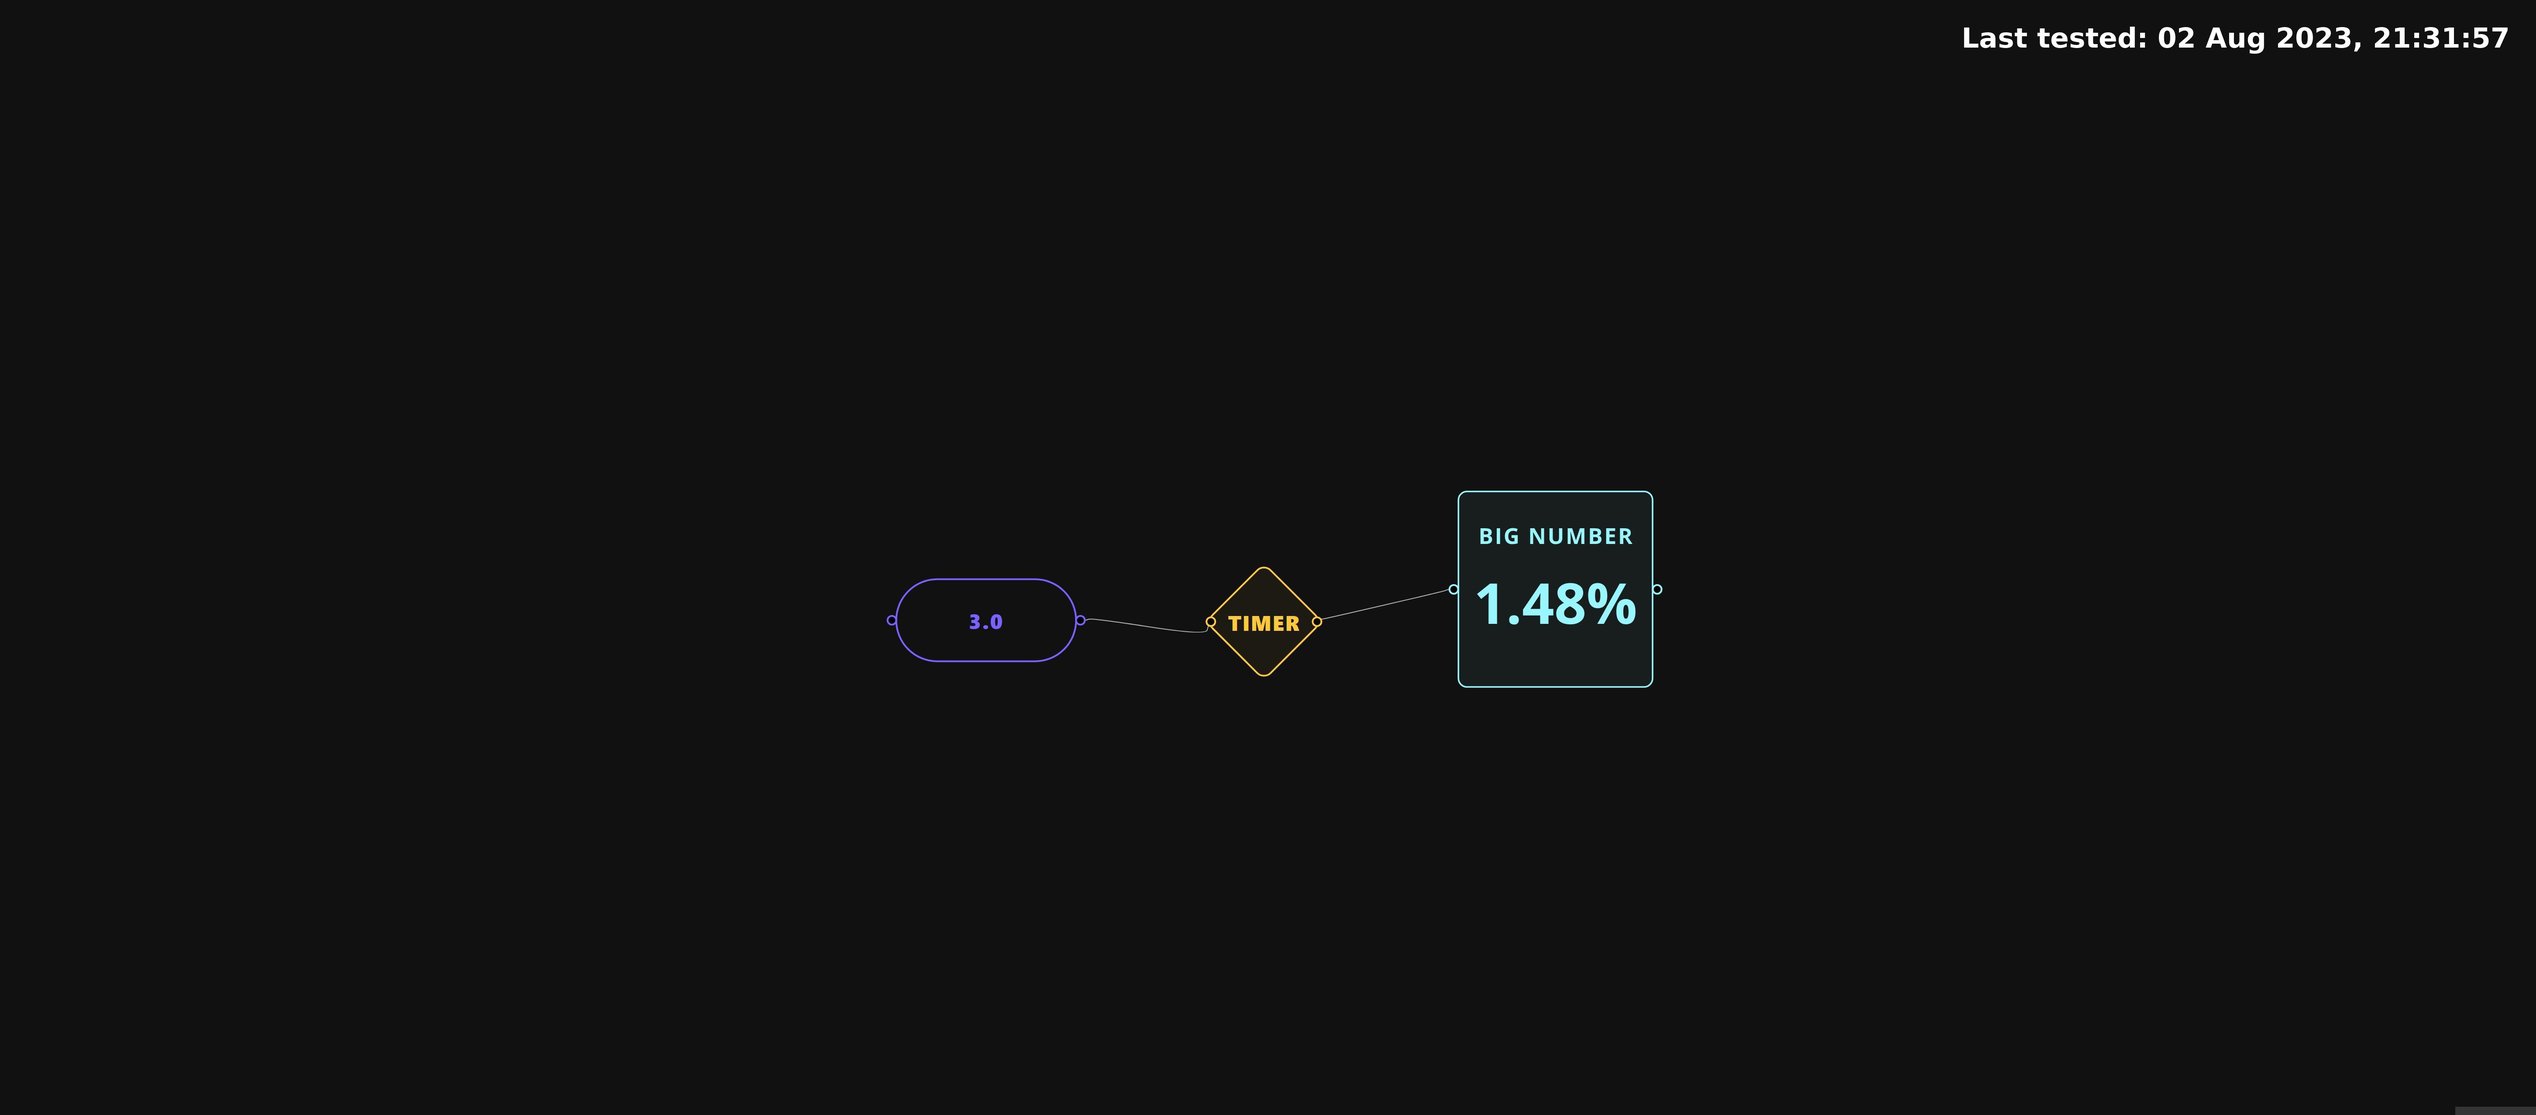
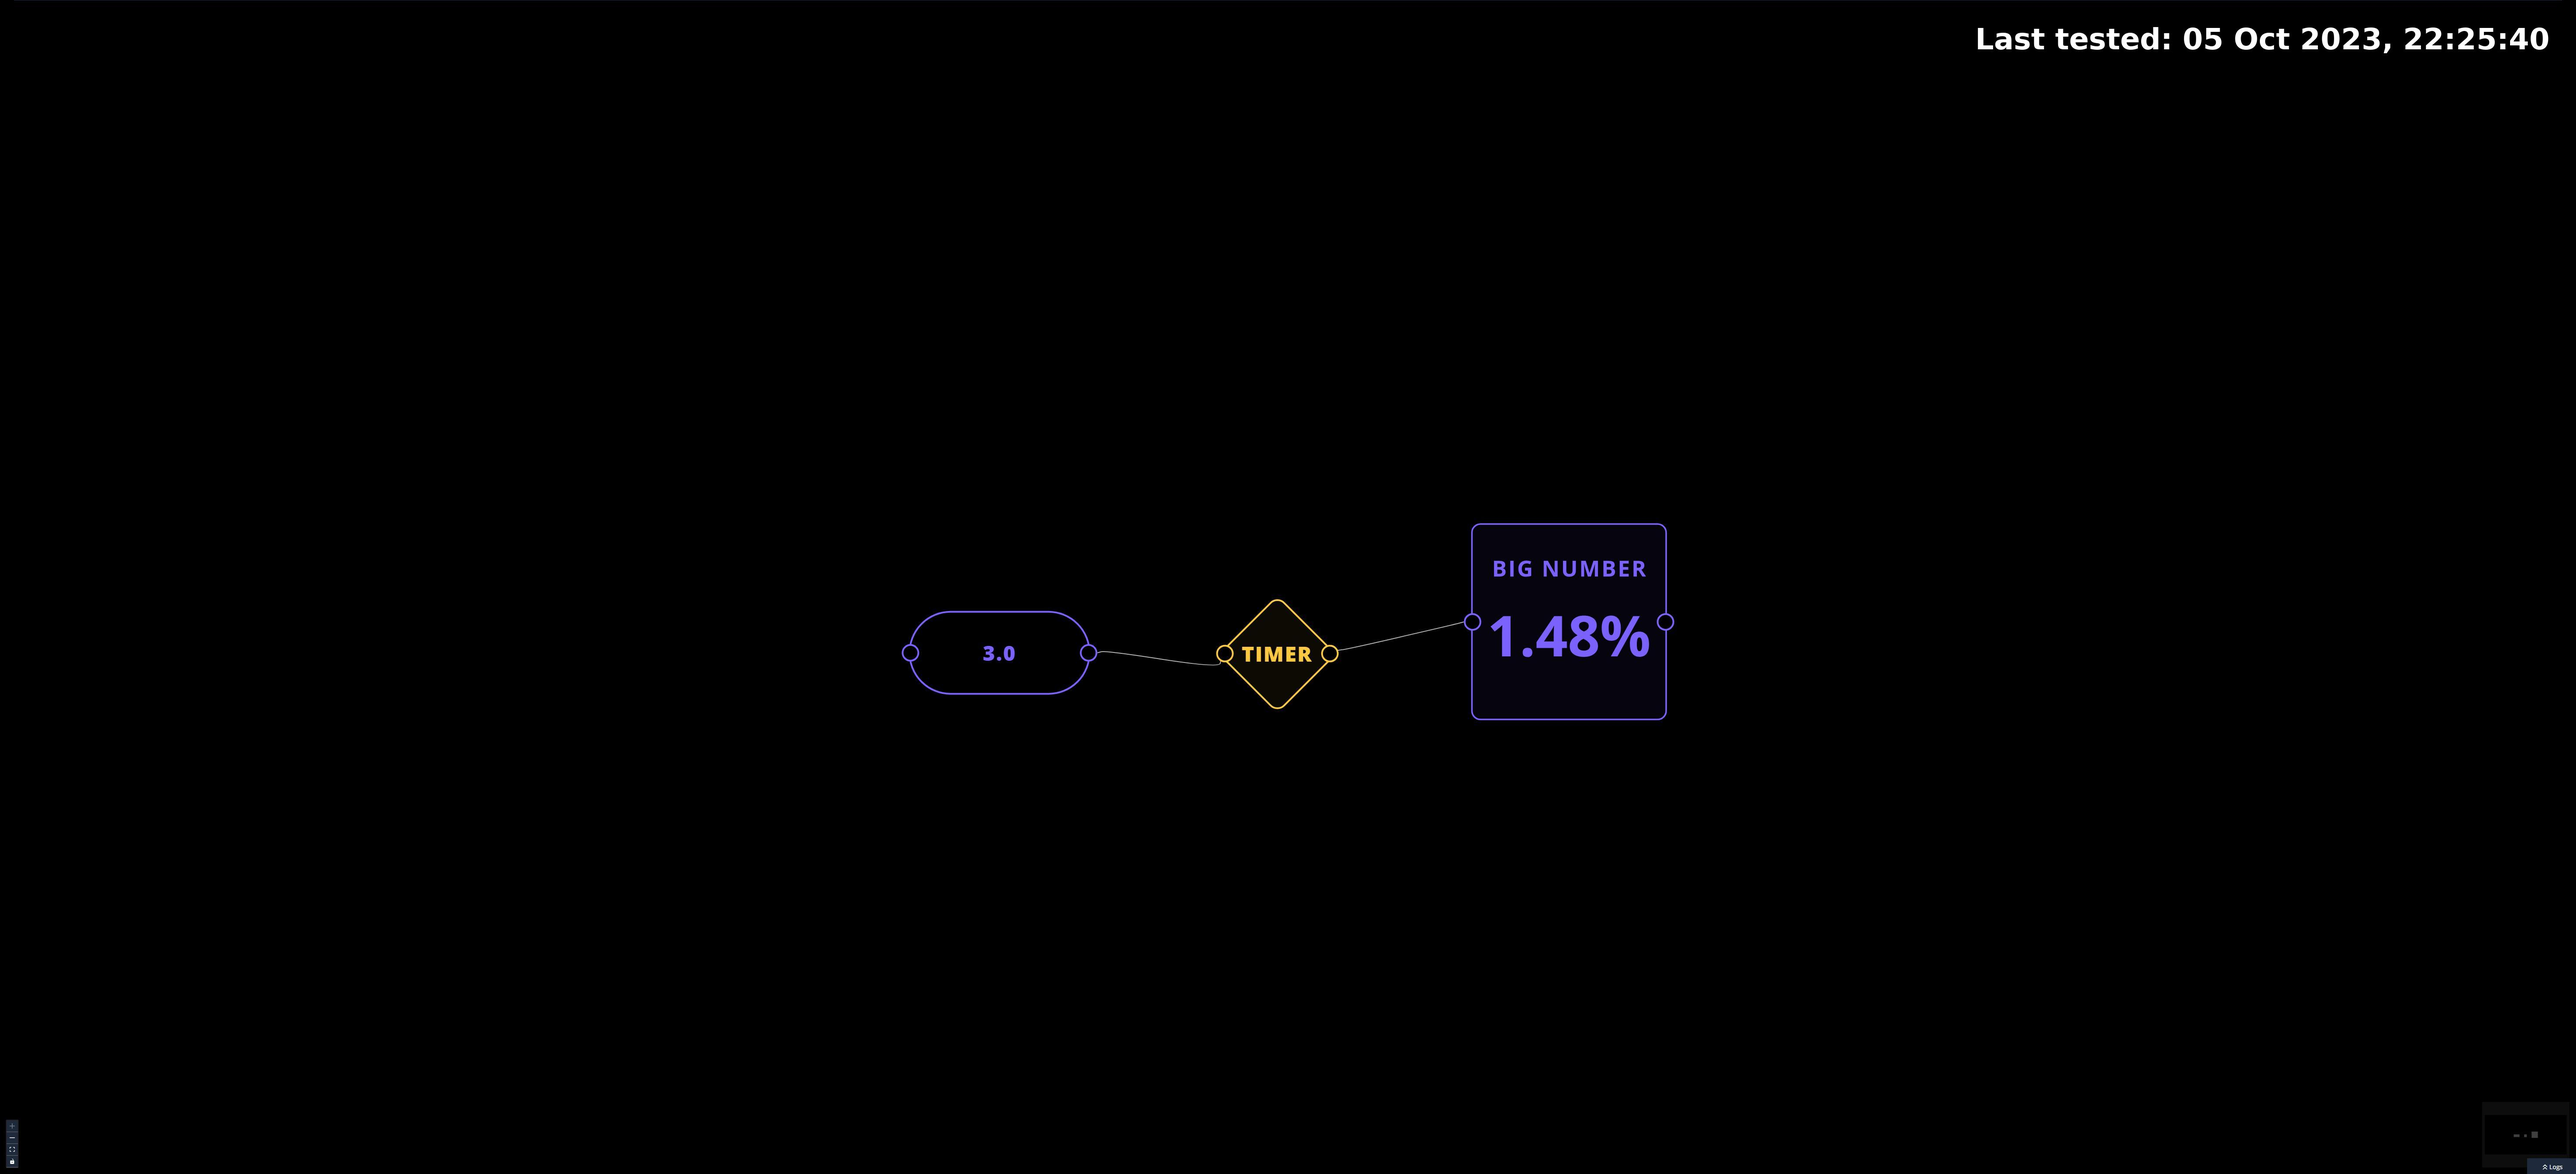
screenshot: LOGIC_GATES

diff --git a/docs/nodes/LOADERS/REMOTE_FILE_SYSTEM/REMOTE_FILE/REMOTE_FILE.md b/docs/nodes/LOADERS/REMOTE_FILE_SYSTEM/REMOTE_FILE/REMOTE_FILE.md
@@ -24,13 +24,19 @@ import PythonSource from '!!raw-loader!./a1-[autogen]/python_code.txt';
 
 import Example1 from './examples/EX1/example.md';
 import App1 from '!!raw-loader!./examples/EX1/app.json';
+import appImg from './examples/EX1/app.jpeg'
+import appImgLight from './examples/EX1/app_light.jpeg'
+import outputImg from './examples/EX1/output.jpeg'
+import outputLight from './examples/EX1/output_light.jpeg'
 
 ### Load and convert a remote file to a DataContainer
 
-<AppDisplay
+<AppDisplay 
     nodeLabel='REMOTE_FILE'
-    appImg={''}
-    outputImg={''}
+    appImg={appImg}
+    appLight={appImgLight}
+    outputLight={outputLight}
+    outputImg={outputImg}
     >
     {App1}
 </AppDisplay>

diff --git a/docs/nodes/LOGIC_GATES/LOOP_TOOLS/BREAK/BREAK.md b/docs/nodes/LOGIC_GATES/LOOP_TOOLS/BREAK/BREAK.md
@@ -25,13 +25,19 @@ import PythonSource from '!!raw-loader!./a1-[autogen]/python_code.txt';
 
 import Example1 from './examples/EX1/example.md';
 import App1 from '!!raw-loader!./examples/EX1/app.json';
+import appImg from './examples/EX1/app.jpeg'
+import appImgLight from './examples/EX1/app_light.jpeg'
+import outputImg from './examples/EX1/output.jpeg'
+import outputLight from './examples/EX1/output_light.jpeg'
 
 ### End the iteration of a loop
 
-<AppDisplay
+<AppDisplay 
     nodeLabel='BREAK'
-    appImg={''}
-    outputImg={''}
+    appImg={appImg}
+    appLight={appImgLight}
+    outputLight={outputLight}
+    outputImg={outputImg}
     >
     {App1}
 </AppDisplay>

diff --git a/docs/nodes/LOADERS/LOCAL_FILE_SYSTEM/LOCAL_FILE/LOCAL_FILE.md b/docs/nodes/LOADERS/LOCAL_FILE_SYSTEM/LOCAL_FILE/LOCAL_FILE.md
@@ -30,13 +30,17 @@ import PythonSource from '!!raw-loader!./a1-[autogen]/python_code.txt';
 import Example1 from './examples/EX1/example.md';
 import App1 from '!!raw-loader!./examples/EX1/app.json';
 import appImg from './examples/EX1/app.jpeg'
+import appImgLight from './examples/EX1/app_light.jpeg'
 import outputImg from './examples/EX1/output.jpeg'
+import outputLight from './examples/EX1/output_light.jpeg'
 
 ### Load and convert a local file to a DataContainer
 
 <AppDisplay 
     nodeLabel='LOCAL_FILE'
     appImg={appImg}
+    appLight={appImgLight}
+    outputLight={outputLight}
     outputImg={outputImg}
     >
     {App1}

diff --git a/docs/nodes/LOADERS/LOCAL_FILE_SYSTEM/BATCH_PROCESSOR/BATCH_PROCESSOR.md b/docs/nodes/LOADERS/LOCAL_FILE_SYSTEM/BATCH_PROCESSOR/BATCH_PROCESSOR.md
@@ -31,13 +31,17 @@ import PythonSource from '!!raw-loader!./a1-[autogen]/python_code.txt';
 import Example1 from './examples/EX1/example.md';
 import App1 from '!!raw-loader!./examples/EX1/app.json';
 import appImg from './examples/EX1/app.jpeg'
+import appImgLight from './examples/EX1/app_light.jpeg'
 import outputImg from './examples/EX1/output.jpeg'
+import outputLight from './examples/EX1/output_light.jpeg'
 
 ### Batch load TIFF images from disk
 
 <AppDisplay 
     nodeLabel='BATCH_PROCESSOR'
     appImg={appImg}
+    appLight={appImgLight}
+    outputLight={outputLight}
     outputImg={outputImg}
     >
     {App1}

diff --git a/docs/nodes/LOGIC_GATES/LOOPS/APPEND/APPEND.md b/docs/nodes/LOGIC_GATES/LOOPS/APPEND/APPEND.md
@@ -30,13 +30,17 @@ import PythonSource from '!!raw-loader!./a1-[autogen]/python_code.txt';
 import Example1 from './examples/EX1/example.md';
 import App1 from '!!raw-loader!./examples/EX1/app.json';
 import appImg from './examples/EX1/app.jpeg'
+import appImgLight from './examples/EX1/app_light.jpeg'
 import outputImg from './examples/EX1/output.jpeg'
+import outputLight from './examples/EX1/output_light.jpeg'
 
 ### Append a data point to an array
 
 <AppDisplay 
     nodeLabel='APPEND'
     appImg={appImg}
+    appLight={appImgLight}
+    outputLight={outputLight}
     outputImg={outputImg}
     >
     {App1}

diff --git a/docs/nodes/LOADERS/LOCAL_FILE_SYSTEM/OPEN_MATLAB/OPEN_MATLAB.md b/docs/nodes/LOADERS/LOCAL_FILE_SYSTEM/OPEN_MATLAB/OPEN_MATLAB.md
@@ -30,13 +30,17 @@ import PythonSource from '!!raw-loader!./a1-[autogen]/python_code.txt';
 import Example1 from './examples/EX1/example.md';
 import App1 from '!!raw-loader!./examples/EX1/app.json';
 import appImg from './examples/EX1/app.jpeg'
+import appImgLight from './examples/EX1/app_light.jpeg'
 import outputImg from './examples/EX1/output.jpeg'
+import outputLight from './examples/EX1/output_light.jpeg'
 
 ### Load a local `.mat` file
 
 <AppDisplay 
     nodeLabel='OPEN_MATLAB'
     appImg={appImg}
+    appLight={appImgLight}
+    outputLight={outputLight}
     outputImg={outputImg}
     >
     {App1}

diff --git a/docs/nodes/LOGIC_GATES/LOOP_TOOLS/LOOP_INDEX/LOOP_INDEX.md b/docs/nodes/LOGIC_GATES/LOOP_TOOLS/LOOP_INDEX/LOOP_INDEX.md
@@ -30,13 +30,17 @@ import PythonSource from '!!raw-loader!./a1-[autogen]/python_code.txt';
 import Example1 from './examples/EX1/example.md';
 import App1 from '!!raw-loader!./examples/EX1/app.json';
 import appImg from './examples/EX1/app.jpeg'
+import appImgLight from './examples/EX1/app_light.jpeg'
 import outputImg from './examples/EX1/output.jpeg'
+import outputLight from './examples/EX1/output_light.jpeg'
 
 ### Track the number of loops
 
 <AppDisplay 
     nodeLabel='LOOP_INDEX'
     appImg={appImg}
+    appLight={appImgLight}
+    outputLight={outputLight}
     outputImg={outputImg}
     >
     {App1}

diff --git a/docs/nodes/LOGIC_GATES/LOOPS/LOOP/LOOP.md b/docs/nodes/LOGIC_GATES/LOOPS/LOOP/LOOP.md
@@ -30,13 +30,17 @@ import PythonSource from '!!raw-loader!./a1-[autogen]/python_code.txt';
 import Example1 from './examples/EX1/example.md';
 import App1 from '!!raw-loader!./examples/EX1/app.json';
 import appImg from './examples/EX1/app.jpeg'
+import appImgLight from './examples/EX1/app_light.jpeg'
 import outputImg from './examples/EX1/output.jpeg'
+import outputLight from './examples/EX1/output_light.jpeg'
 
 ### Iterate through the body nodes
 
 <AppDisplay 
     nodeLabel='LOOP'
     appImg={appImg}
+    appLight={appImgLight}
+    outputLight={outputLight}
     outputImg={outputImg}
     >
     {App1}

diff --git a/docs/nodes/LOGIC_GATES/TIMERS/TIMER/TIMER.md b/docs/nodes/LOGIC_GATES/TIMERS/TIMER/TIMER.md
@@ -30,13 +30,17 @@ import PythonSource from '!!raw-loader!./a1-[autogen]/python_code.txt';
 import Example1 from './examples/EX1/example.md';
 import App1 from '!!raw-loader!./examples/EX1/app.json';
 import appImg from './examples/EX1/app.jpeg'
+import appImgLight from './examples/EX1/app_light.jpeg'
 import outputImg from './examples/EX1/output.jpeg'
+import outputLight from './examples/EX1/output_light.jpeg'
 
 ### Sleep for a number of seconds
 
 <AppDisplay 
     nodeLabel='TIMER'
     appImg={appImg}
+    appLight={appImgLight}
+    outputLight={outputLight}
     outputImg={outputImg}
     >
     {App1}

diff --git a/docs/nodes/LOGIC_GATES/CONDITIONALS/CONDITIONAL/CONDITIONAL.md b/docs/nodes/LOGIC_GATES/CONDITIONALS/CONDITIONAL/CONDITIONAL.md
@@ -30,13 +30,17 @@ import PythonSource from '!!raw-loader!./a1-[autogen]/python_code.txt';
 import Example1 from './examples/EX1/example.md';
 import App1 from '!!raw-loader!./examples/EX1/app.json';
 import appImg from './examples/EX1/app.jpeg'
+import appImgLight from './examples/EX1/app_light.jpeg'
 import outputImg from './examples/EX1/output.jpeg'
+import outputLight from './examples/EX1/output_light.jpeg'
 
 ### Compare two inputs
 
 <AppDisplay 
     nodeLabel='CONDITIONAL'
     appImg={appImg}
+    appLight={appImgLight}
+    outputLight={outputLight}
     outputImg={outputImg}
     >
     {App1}

diff --git a/docs/nodes/GENERATORS/SAMPLE_DATASETS/SCIKIT_LEARN_DATASET/SCIKIT_LEARN_DATASET.md b/docs/nodes/GENERATORS/SAMPLE_DATASETS/SCIKIT_LEARN_DATASET/SCIKIT_LEARN_DATASET.md
@@ -26,9 +26,9 @@ import PythonSource from '!!raw-loader!./a1-[autogen]/python_code.txt';
 import Example1 from './examples/EX1/example.md';
 import App1 from '!!raw-loader!./examples/EX1/app.json';
 
+### SCIKIT_LEARN_DATASET example
 
-
-<AppDisplay 
+<AppDisplay
     nodeLabel='SCIKIT_LEARN_DATASET'
     appImg={''}
     outputImg={''}
